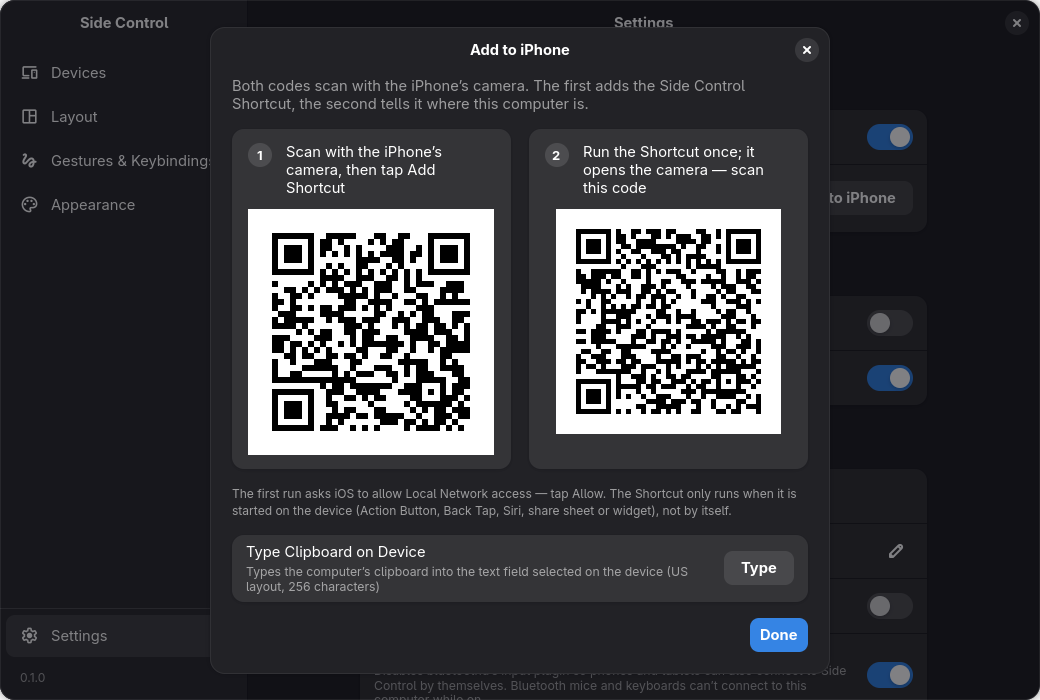
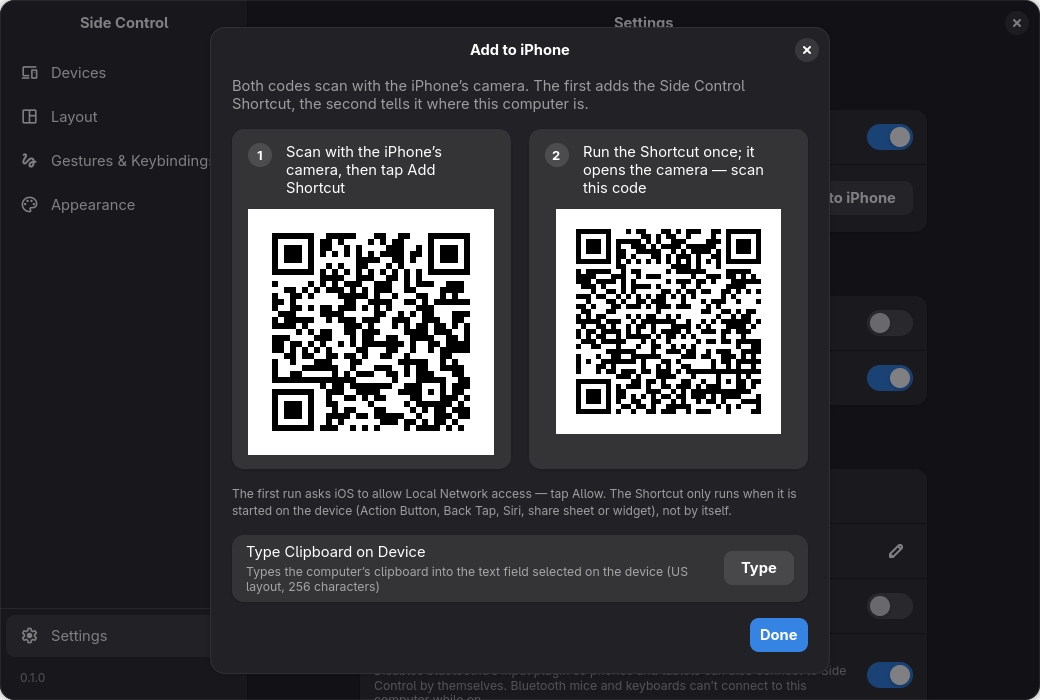
Turn Share Clipboard on when the Shortcut is added, and harden its server
Add to iPhone turns Share Clipboard on: the Shortcut set up from the
second code has nothing to talk to otherwise. The server drops a
connection that sits idle, asks wl-paste for text only, and hands the
pointer return to the main loop, which owns the backend's socket. The
Shortcut's guide sends the body as a File, the only raw choice Get
Contents of URL has, and stops after a share-sheet send.

Changed region(s): [[0.5538, 0.33, 0.7385, 0.6]]

diff --git a/side_control/app/pages.py b/side_control/app/pages.py
@@ -181,9 +181,9 @@ class PagesMixin:
                                          "Move past a screen edge to control the device there",
                                          lambda: (self.send_option("share_cursor"), self.layout_changed()))
         cursor.add(self.share_row)
-        share = self.switch_row("share_clipboard", "Share Clipboard",
-                                "Text between the computer and the Side Control Shortcut on the device",
-                                self.update_clipboard)
+        self.clipboard_row = share = self.switch_row("share_clipboard", "Share Clipboard",
+                                                     "Text between the computer and the Side Control "
+                                                     "Shortcut on the device", self.update_clipboard)
         add = Gtk.Button(label="Add to iPhone", valign=Gtk.Align.CENTER)
         add.connect("clicked", lambda _b: self.show_add_to_iphone())
         share.add_suffix(add)

diff --git a/side_control/app/clipboard.py b/side_control/app/clipboard.py
@@ -96,7 +96,8 @@ def read_text():
     paste = shutil.which("wl-paste")
     if paste:
         try:
-            done = subprocess.run([paste, "--no-newline"], capture_output=True, timeout=CLIP_TIMEOUT_S)
+            done = subprocess.run([paste, "--no-newline", "--type", "text"], capture_output=True,
+                                  timeout=CLIP_TIMEOUT_S)  # text only: not an image's bytes
             if done.returncode == 0:
                 return done.stdout.decode("utf-8", "replace")
         except (OSError, subprocess.SubprocessError):
@@ -135,6 +136,7 @@ class _Handler(BaseHTTPRequestHandler):
     """One request from the Shortcut: the token first, then the endpoint."""
 
     protocol_version = "HTTP/1.1"
+    timeout = 10  # seconds a connection may sit idle: one that never sends would hold a thread
 
     def do_GET(self):
         if not self.token_ok():

diff --git a/side_control/app/dialogs.py b/side_control/app/dialogs.py
@@ -111,7 +111,10 @@ class DialogsMixin:
 
     def show_add_to_iphone(self, address=None):
         """Two QR codes for the device's camera: the Side Control Shortcut (an iCloud link), then the
-        setup code with this computer's address and token (docs/shortcuts.md)."""
+        setup code with this computer's address and token (docs/shortcuts.md). The Shortcut needs the
+        server, so asking for it turns Share Clipboard on."""
+        if not self.settings["share_clipboard"]:
+            self.clipboard_row.set_active(True)  # saves it and starts the server, as the switch does
         dev = self.devs.get(address or "", {})
         kind = "iPad" if dev.get("form") == "tablet" else "iPhone"
         body = Gtk.Box(orientation=Gtk.Orientation.VERTICAL, spacing=16)

diff --git a/side_control/app/window.py b/side_control/app/window.py
@@ -314,7 +314,8 @@ class Window(PagesMixin, DialogsMixin, BluetoothMixin, Adw.ApplicationWindow):
             try:
                 self.clipboard_server = clipboard.ClipboardServer(
                     clipboard.new_token(self.settings), clipboard.read_text, clipboard.write_text,
-                    self.backend.send)
+                    # from the server's thread: the backend socket is written on the main loop only
+                    lambda **msg: GLib.idle_add(lambda: self.backend.send(**msg) and False))
                 self.clipboard_server.start()
             except OSError as err:
                 self.clipboard_server = None

diff --git a/docs/shortcuts.md b/docs/shortcuts.md
@@ -65,8 +65,11 @@ tap it. Every "tap X" below is a tap on that action's button or field.
       (`Computer URL/clipboard`).
     - Tap **Show More**. **Method**: **POST**.
     - **Headers**: tap **Add new item**, key `X-Side-Control-Token`, value: the variable `Token`.
-    - **Request Body**: **Text**, and pick the variable `Text` (from step 14).
-16. Add **Show Notification**. Tap the text and type `Sent to the computer`.
+    - **Request Body**: **File** (it has no plain-text choice; a text variable given as a file is
+      sent as its raw text, which is what the computer reads), and pick the variable `Text` (from
+      step 14).
+16. Add **Show Notification**. Tap the text and type `Sent to the computer`. Then add **Stop This
+    Shortcut**, so the share sheet does not go on to the menu below.
 17. Add **End If**.
 18. Search **Choose from Menu** and add it. Give it these four items (tap **Add new item** for each):
     `Send Clipboard to Computer`, `Get Clipboard from Computer`, `Return Pointer to Computer`,
@@ -74,7 +77,7 @@ tap it. Every "tap X" below is a tap on that action's button or field.
 19. Under **Send Clipboard to Computer**, add:
     1. **Get Clipboard**.
     2. **Get Contents of URL** as in step 15 (URL `Computer URL/clipboard`, **POST**, the same
-       header, **Request Body**: **Text** → the variable `Clipboard`).
+       header, **Request Body**: **File** → the variable `Clipboard`).
     3. **Show Notification** with `Sent to the computer`.
 20. Under **Get Clipboard from Computer**, add:
     1. **Get Contents of URL**. Tap **URL**, enter `Computer URL/clipboard`. Tap **Show More** →
